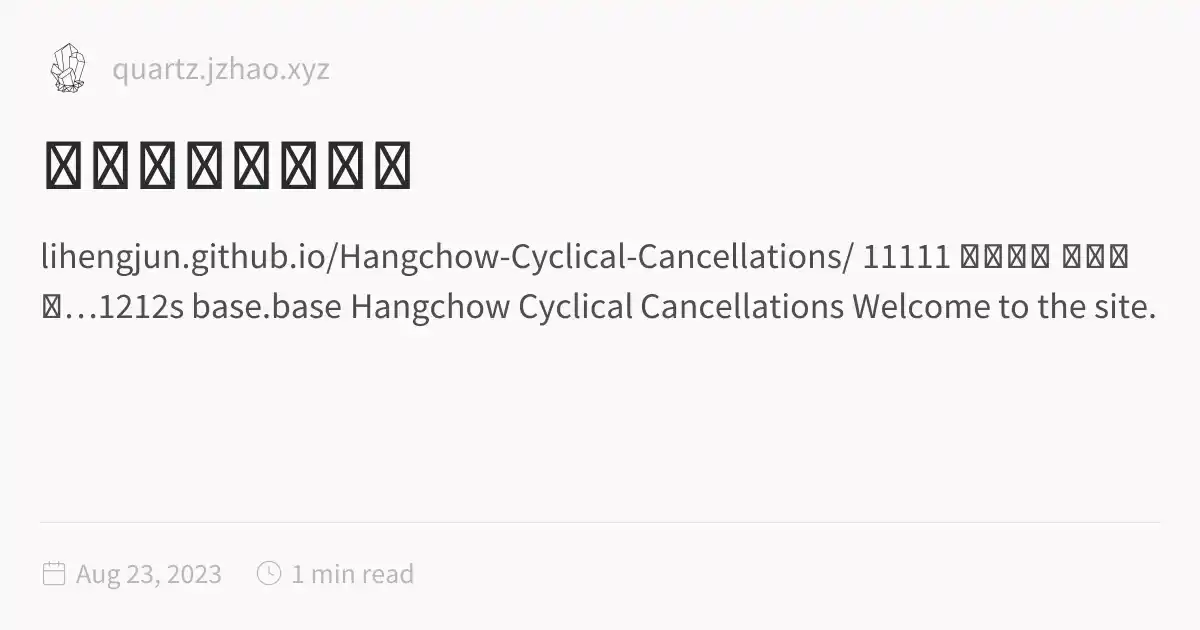
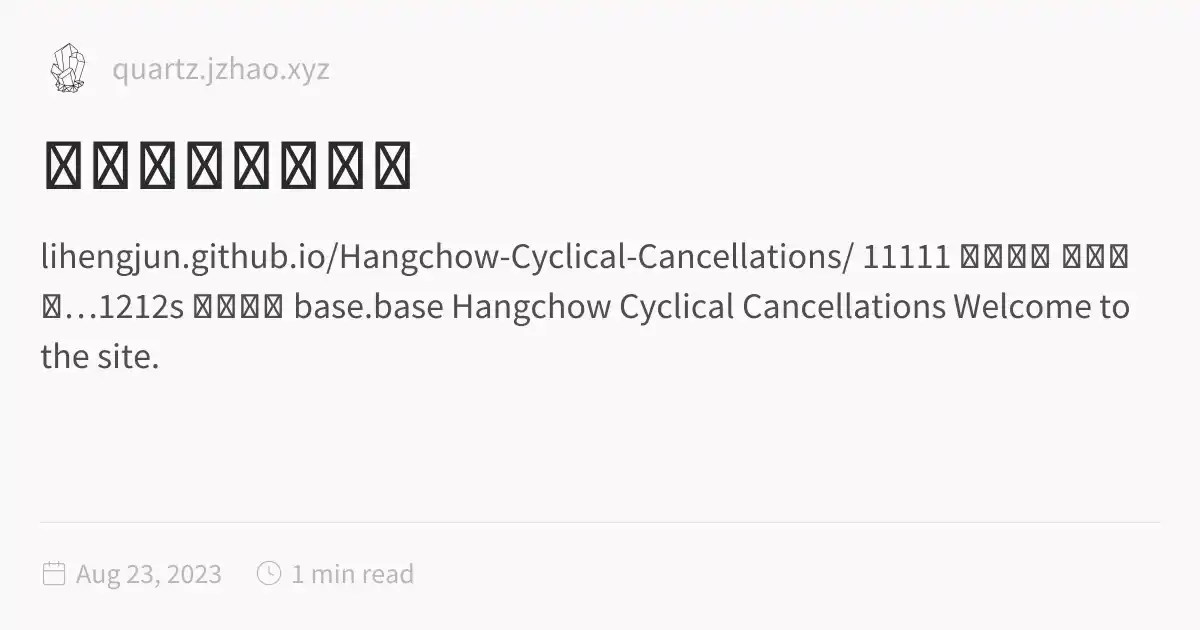
deploy: lihengjun/my-obsidian-vault@66e91dbd0979b4e42cb24ed2bfb1e6c9a3dcdf89

Changed region(s): [[0.1542, 0.4524, 0.9558, 0.5127], [0.0308, 0.5429, 0.1233, 0.6032]]

diff --git a/news/index.html b/news/index.html
@@ -116,6 +116,6 @@ pre:hover > .expand-button {
   padding: 0 12px;
   font-size: 14px;
 }
[2 lines of base64/hex data omitted]
 </script><script type="module">function f(i,e){if(!i)return;function r(o){o.target===this&&(o.preventDefault(),o.stopPropagation(),e())}function t(o){o.key.startsWith("Esc")&&(o.preventDefault(),e())}i?.addEventListener("click",r),window.addCleanup(()=>i?.removeEventListener("click",r)),document.addEventListener("keydown",t),window.addCleanup(()=>document.removeEventListener("keydown",t))}function y(i){for(;i.firstChild;)i.removeChild(i.firstChild)}var h=class{constructor(e,r){this.container=e;this.content=r;this.setupEventListeners(),this.setupNavigationControls(),this.resetTransform()}isDragging=!1;startPan={x:0,y:0};currentPan={x:0,y:0};scale=1;MIN_SCALE=.5;MAX_SCALE=3;cleanups=[];setupEventListeners(){let e=this.onMouseDown.bind(this),r=this.onMouseMove.bind(this),t=this.onMouseUp.bind(this),o=this.resetTransform.bind(this);this.container.addEventListener("mousedown",e),document.addEventListener("mousemove",r),document.addEventListener("mouseup",t),window.addEventListener("resize",o),this.cleanups.push(()=>this.container.removeEventListener("mousedown",e),()=>document.removeEventListener("mousemove",r),()=>document.removeEventListener("mouseup",t),()=>window.removeEventListener("resize",o))}cleanup(){for(let e of this.cleanups)e()}setupNavigationControls(){let e=document.createElement("div");e.className="mermaid-controls";let r=this.createButton("+",()=>this.zoom(.1)),t=this.createButton("-",()=>this.zoom(-.1)),o=this.createButton("Reset",()=>this.resetTransform());e.appendChild(t),e.appendChild(o),e.appendChild(r),this.container.appendChild(e)}createButton(e,r){let t=document.createElement("button");return t.textContent=e,t.className="mermaid-control-button",t.addEventListener("click",r),window.addCleanup(()=>t.removeEventListener("click",r)),t}onMouseDown(e){e.button===0&&(this.isDragging=!0,this.startPan={x:e.clientX-this.currentPan.x,y:e.clientY-this.currentPan.y},this.container.style.cursor="grabbing")}onMouseMove(e){this.isDragging&&(e.preventDefault(),this.currentPan={x:e.clientX-this.startPan.x,y:e.clientY-this.startPan.y},this.updateTransform())}onMouseUp(){this.isDragging=!1,this.container.style.cursor="grab"}zoom(e){let r=Math.min(Math.max(this.scale+e,this.MIN_SCALE),this.MAX_SCALE),t=this.content.getBoundingClientRect(),o=t.width/2,n=t.height/2,c=r-this.scale;this.currentPan.x-=o*c,this.currentPan.y-=n*c,this.scale=r,this.updateTransform()}updateTransform(){this.content.style.transform=`translate(${this.currentPan.x}px, ${this.currentPan.y}px) scale(${this.scale})`}resetTransform(){this.scale=1;let e=this.content.querySelector("svg");this.currentPan={x:e.getBoundingClientRect().width/2,y:e.getBoundingClientRect().height/2},this.updateTransform()}},C=["--secondary","--tertiary","--gray","--light","--lightgray","--highlight","--dark","--darkgray","--codeFont"],E;document.addEventListener("nav",async()=>{let e=document.querySelector(".center").querySelectorAll("code.mermaid");if(e.length===0)return;E||=await import("https://cdnjs.cloudflare.com/ajax/libs/mermaid/11.4.0/mermaid.esm.min.mjs");let r=E.default,t=new WeakMap;for(let n of e)t.set(n,n.innerText);async function o(){for(let s of e){s.removeAttribute("data-processed");let a=t.get(s);a&&(s.innerHTML=a)}let n=C.reduce((s,a)=>(s[a]=window.getComputedStyle(document.documentElement).getPropertyValue(a),s),{}),c=document.documentElement.getAttribute("saved-theme")==="dark";r.initialize({startOnLoad:!1,securityLevel:"loose",theme:c?"dark":"base",themeVariables:{fontFamily:n["--codeFont"],primaryColor:n["--light"],primaryTextColor:n["--darkgray"],primaryBorderColor:n["--tertiary"],lineColor:n["--darkgray"],secondaryColor:n["--secondary"],tertiaryColor:n["--tertiary"],clusterBkg:n["--light"],edgeLabelBackground:n["--highlight"]}}),await r.run({nodes:e})}await o(),document.addEventListener("themechange",o),window.addCleanup(()=>document.removeEventListener("themechange",o));for(let n=0;n<e.length;n++){let v=function(){let g=l.querySelector("#mermaid-space"),m=l.querySelector(".mermaid-content");if(!m)return;y(m);let w=c.querySelector("svg").cloneNode(!0);m.appendChild(w),l.classList.add("active"),g.style.cursor="grab",u=new h(g,m)},M=function(){l.classList.remove("active"),u?.cleanup(),u=null},c=e[n],s=c.parentElement,a=s.querySelector(".clipboard-button"),d=s.querySelector(".expand-button"),p=window.getComputedStyle(a),L=a.offsetWidth+parseFloat(p.marginLeft||"0")+parseFloat(p.marginRight||"0");d.style.right=`calc(${L}px + 0.3rem)`,s.prepend(d);let l=s.querySelector("#mermaid-container");if(!l)return;let u=null;d.addEventListener("click",v),f(l,M),window.addCleanup(()=>{u?.cleanup(),d.removeEventListener("click",v)})}});
 </script><script src="https://cdn.jsdelivr.net/npm/katex@0.16.11/dist/contrib/copy-tex.min.js" type="application/javascript"></script><script src="../postscript.js" type="module"></script></html>

diff --git a/other.html b/other.html
@@ -116,7 +116,7 @@ pre:hover > .expand-button {
   padding: 0 12px;
   font-size: 14px;
 }
[2 lines of base64/hex data omitted]
                 s-3.542,0.634-4.898,1.688l-7.669-7.669C16.785,10.424,17,9.74,17,9c0-2.206-1.794-4-4-4S9,6.794,9,9s1.794,4,4,4
                 c0.74,0,1.424-0.215,2.019-0.567l7.669,7.669C21.634,21.458,21,23.154,21,25s0.634,3.542,1.688,4.897L10.024,42.562
                 C8.958,41.595,7.549,41,6,41c-3.309,0-6,2.691-6,6s2.691,6,6,6s6-2.691,6-6c0-1.035-0.263-2.009-0.726-2.86l12.829-12.829

diff --git a/index.html b/index.html
@@ -1,5 +1,5 @@
 <!DOCTYPE html>
-<html lang="en"><head><title>杭州城幹支戳蓃集</title><meta charset="utf-8"/><link rel="preconnect" href="https://fonts.googleapis.com"/><link rel="preconnect" href="https://fonts.gstatic.com"/><link rel="stylesheet" href="https://fonts.googleapis.com/css2?family=Schibsted Grotesk:wght@400;700&amp;family=Source Sans Pro:ital,wght@0,400;0,600;1,400;1,600&amp;family=IBM Plex Mono:wght@400;600&amp;display=swap"/><link rel="preconnect" href="https://cdnjs.cloudflare.com" crossorigin="anonymous"/><meta name="viewport" content="width=device-width, initial-scale=1.0"/><meta name="og:site_name" content="Quartz 4"/><meta property="og:title" content="杭州城幹支戳蓃集"/><meta property="og:type" content="website"/><meta name="twitter:card" content="summary_large_image"/><meta name="twitter:title" content="杭州城幹支戳蓃集"/><meta name="twitter:description" content="lihengjun.github.io/Hangchow-Cyclical-Cancellations/ 11111 内容标题 你的内容…1212s base.base Hangchow Cyclical Cancellations Welcome to the site."/><meta property="og:description" content="lihengjun.github.io/Hangchow-Cyclical-Cancellations/ 11111 内容标题 你的内容…1212s base.base Hangchow Cyclical Cancellations Welcome to the site."/><meta property="og:image:alt" content="lihengjun.github.io/Hangchow-Cyclical-Cancellations/ 11111 内容标题 你的内容…1212s base.base Hangchow Cyclical Cancellations Welcome to the site."/><meta property="twitter:domain" content="quartz.jzhao.xyz"/><meta property="og:url" content="https://quartz.jzhao.xyz/index"/><meta property="twitter:url" content="https://quartz.jzhao.xyz/index"/><link rel="icon" href="./static/icon.png"/><meta name="description" content="lihengjun.github.io/Hangchow-Cyclical-Cancellations/ 11111 内容标题 你的内容…1212s base.base Hangchow Cyclical Cancellations Welcome to the site."/><meta name="generator" content="Quartz"/><link href="./index.css" rel="stylesheet" type="text/css" spa-preserve/><style>.expand-button {
+<html lang="en"><head><title>杭州城幹支戳蓃集</title><meta charset="utf-8"/><link rel="preconnect" href="https://fonts.googleapis.com"/><link rel="preconnect" href="https://fonts.gstatic.com"/><link rel="stylesheet" href="https://fonts.googleapis.com/css2?family=Schibsted Grotesk:wght@400;700&amp;family=Source Sans Pro:ital,wght@0,400;0,600;1,400;1,600&amp;family=IBM Plex Mono:wght@400;600&amp;display=swap"/><link rel="preconnect" href="https://cdnjs.cloudflare.com" crossorigin="anonymous"/><meta name="viewport" content="width=device-width, initial-scale=1.0"/><meta name="og:site_name" content="Quartz 4"/><meta property="og:title" content="杭州城幹支戳蓃集"/><meta property="og:type" content="website"/><meta name="twitter:card" content="summary_large_image"/><meta name="twitter:title" content="杭州城幹支戳蓃集"/><meta name="twitter:description" content="lihengjun.github.io/Hangchow-Cyclical-Cancellations/ 11111 内容标题 你的内容…1212s 编辑内容 base.base Hangchow Cyclical Cancellations Welcome to the site."/><meta property="og:description" content="lihengjun.github.io/Hangchow-Cyclical-Cancellations/ 11111 内容标题 你的内容…1212s 编辑内容 base.base Hangchow Cyclical Cancellations Welcome to the site."/><meta property="og:image:alt" content="lihengjun.github.io/Hangchow-Cyclical-Cancellations/ 11111 内容标题 你的内容…1212s 编辑内容 base.base Hangchow Cyclical Cancellations Welcome to the site."/><meta property="twitter:domain" content="quartz.jzhao.xyz"/><meta property="og:url" content="https://quartz.jzhao.xyz/index"/><meta property="twitter:url" content="https://quartz.jzhao.xyz/index"/><link rel="icon" href="./static/icon.png"/><meta name="description" content="lihengjun.github.io/Hangchow-Cyclical-Cancellations/ 11111 内容标题 你的内容…1212s 编辑内容 base.base Hangchow Cyclical Cancellations Welcome to the site."/><meta name="generator" content="Quartz"/><link href="./index.css" rel="stylesheet" type="text/css" spa-preserve/><style>.expand-button {
   position: absolute;
   display: flex;
   float: right;
@@ -120,6 +120,7 @@ pre:hover > .expand-button {
 <p>11111</p>
 <h1 id="内容标题">内容标题<a role="anchor" aria-hidden="true" tabindex="-1" data-no-popover="true" href="#内容标题" class="internal"><svg width="18" height="18" viewBox="0 0 24 24" fill="none" stroke="currentColor" stroke-width="2" stroke-linecap="round" stroke-linejoin="round"><path d="M10 13a5 5 0 0 0 7.54.54l3-3a5 5 0 0 0-7.07-7.07l-1.72 1.71"></path><path d="M14 11a5 5 0 0 0-7.54-.54l-3 3a5 5 0 0 0 7.07 7.07l1.71-1.71"></path></svg></a></h1>
 <p>你的内容…1212s</p>
+<p>编辑内容</p>
 <p><a href="./base.base" class="internal" data-slug="base.base">base.base</a></p>
 <h1 id="hangchow-cyclical-cancellations">Hangchow Cyclical Cancellations<a role="anchor" aria-hidden="true" tabindex="-1" data-no-popover="true" href="#hangchow-cyclical-cancellations" class="internal"><svg width="18" height="18" viewBox="0 0 24 24" fill="none" stroke="currentColor" stroke-width="2" stroke-linecap="round" stroke-linejoin="round"><path d="M10 13a5 5 0 0 0 7.54.54l3-3a5 5 0 0 0-7.07-7.07l-1.72 1.71"></path><path d="M14 11a5 5 0 0 0-7.54-.54l-3 3a5 5 0 0 0 7.07 7.07l1.71-1.71"></path></svg></a></h1>
 <p>Welcome to the site.</p>
